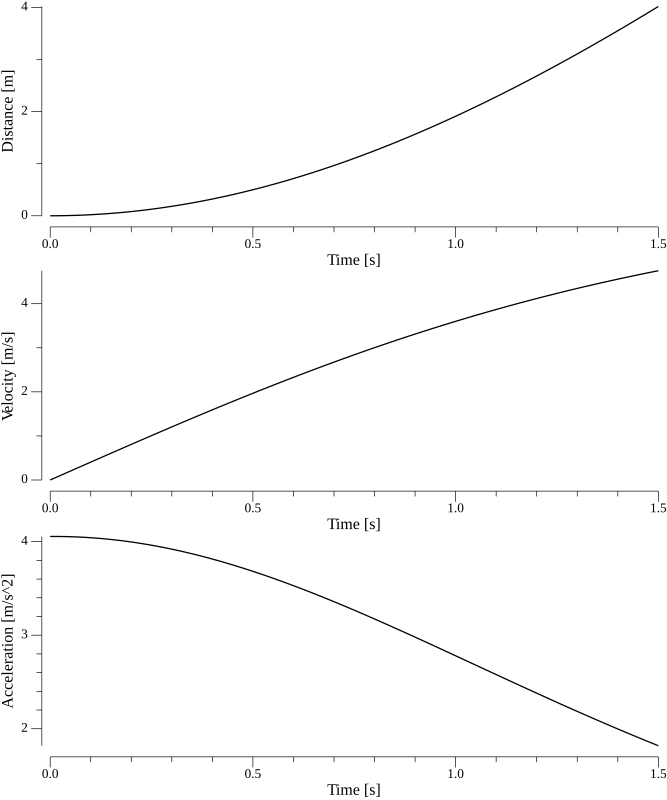
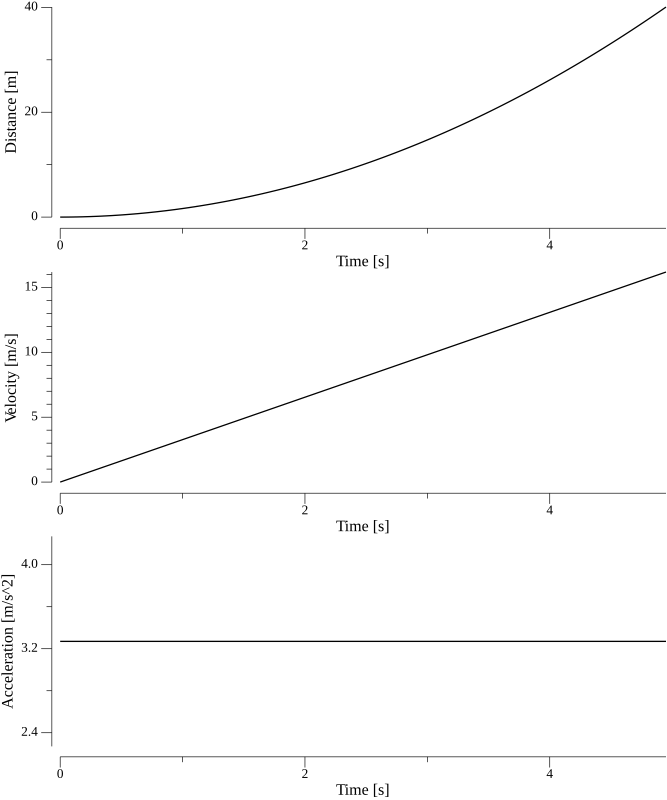
added basic rotation

diff --git a/main.go b/main.go
@@ -12,6 +12,7 @@ import (
 	"fyne.io/fyne/v2/container"
 	"fyne.io/fyne/v2/layout"
 	"fyne.io/fyne/v2/widget"
+
 	"github.com/faiface/pixel"
 	"github.com/faiface/pixel/imdraw"
 	"github.com/faiface/pixel/pixelgl"
@@ -60,15 +61,20 @@ func run() {
 
 	
 	var draw_result []float64
+	var fi float64
 
 	for i := 0; i < len(x_result); i++ {
 		draw_result = append(draw_result,x_result[i]/x_result[len(x_result)-1]*lineHeight/math.Sin(alfa))
 		
+		
 	}
+	fmt.Println(a_result[len(a_result)-1])
+	fmt.Println(t_result[len(t_result)-1])
 
 	i := 0
 	for !win.Closed() {
 		win.Clear(color.Black)
+
 		d:=30.0
 		
 		imd.Clear()
@@ -76,15 +82,11 @@ func run() {
 		if(y-d*math.Sin(alfa)>y1-lineHeight){
 			x = x1 +3 + draw_result[i]*math.Cos(alfa)
 			y = y1 +3 - draw_result[i]*math.Sin(alfa)
+			fi = (a_result[i]*math.Pow(t_result[i],2)/4)
 			i+=1
 		}
-		fmt.Println(t_result[i])
+		fmt.Println(fi/math.Pi*180)
 		
-
-		
-
-		
-		// Narysuj równię pochyloną
 		imd.Color = color.White
 		imd.Push(pixel.V(x1, y1-lineHeight), pixel.V(x1+lineHeight/math.Tan(alfa), y1-lineHeight))
 		imd.Push(pixel.V(x1, y1), pixel.V(x1+lineHeight/math.Tan(alfa), y1-lineHeight))
@@ -95,22 +97,27 @@ func run() {
 		imd.Color = color.RGBA{255,0,0,0}
 		
 
-		x2 := x + d * math.Cos(alfa)
-		y2 := y - d * math.Sin(alfa)
+		// x2 := x + d * math.Cos(alfa)
+		// y2 := y - d * math.Sin(alfa)
 
-		x3 := x + d * math.Sin(alfa)
-		y3 := y + d * math.Cos(alfa)
+		// x3 := x + d * math.Sin(alfa)
+		// y3 := y + d * math.Cos(alfa)
 
-		x4 := x + d * (math.Cos(alfa) + math.Sin(alfa))
-		y4 := y - d * (math.Sin(alfa) - math.Cos(alfa))
+		// x4 := x + d * (math.Cos(alfa) + math.Sin(alfa))
+		// y4 := y - d * (math.Sin(alfa) - math.Cos(alfa))
 		
-		imd.Push(pixel.V(x,y),pixel.V(x2,y2))
-		imd.Push(pixel.V(x2,y2),pixel.V(x4,y4))
-		imd.Push(pixel.V(x4,y4),pixel.V(x3,y3))
-		imd.Push(pixel.V(x3,y3),pixel.V(x,y))
+		// imd.Push(pixel.V(x,y),pixel.V(x2,y2))
+		// imd.Push(pixel.V(x2,y2),pixel.V(x4,y4))
+		// imd.Push(pixel.V(x4,y4),pixel.V(x3,y3))
+		// imd.Push(pixel.V(x3,y3),pixel.V(x,y))
+		// imd.Line(5)
+		imd.Push(pixel.V(x+20*math.Sin(alfa),y+20*math.Cos(alfa)))
 		
+		imd.Circle(20,5)
 
+		imd.Push(pixel.V(x+20*math.Sin(alfa),y+20*math.Cos(alfa)),pixel.V(x+20*math.Sin(alfa)+20*math.Cos(fi),y+20*math.Cos(alfa)-20*math.Sin(fi)))
 		imd.Line(5)
+		
 		
 		
 		
@@ -120,7 +127,8 @@ func run() {
 		win.Update()
 		
 		time.Sleep(time.Second/100) 
-		fmt.Println(float64(i)/100)
+		// fmt.Println(float64(i)/100)
+		
 		
 	}
 	plot_results(t_result,x_result,v_result,a_result)
@@ -139,7 +147,8 @@ func parameterWindow () {
 	app := app.New()
 	w := app.NewWindow("Hello World")
 	
-	
+	var square = false
+
 	input_gravity := widget.NewEntry()
 	input_gravity_label :=widget.NewLabel("Gravity acceleration [m/s^2]")
 	input_gravity.Text = "9.81"
@@ -193,7 +202,7 @@ func parameterWindow () {
 			fmt.Println("Erorr: ",err)
 		}
 		
-		x_result,v_result,a_result,t_result=simulation(g,m,u,b,alfa,height)
+		x_result,v_result,a_result,t_result=simulation_square(square,g,m,u,b,alfa,height)
 		
 		w.Close()
 		
@@ -207,7 +216,7 @@ func parameterWindow () {
 	w.ShowAndRun()
 }
 
-func simulation(g,m,u,b,alfa,height float64) ([]float64,[]float64,[]float64,[]float64){
+func simulation_square(square bool,g,m,u,b,alfa,height float64) ([]float64,[]float64,[]float64,[]float64){
 	x := float64(0) 
 	x_prev := float64(0) 
 	v:=float64(0) 
@@ -222,7 +231,11 @@ func simulation(g,m,u,b,alfa,height float64) ([]float64,[]float64,[]float64,[]fl
 	for i := 0; x*math.Sin(alfa)< height; i++ {
 		x = x_prev + h*v_prev+math.Pow(h,2)/2*a_prev
 		v = v_prev + h*a_prev
-		a = -b/m*math.Pow(v_prev,2)-g*u*math.Cos(alfa)+g*math.Sin(alfa)
+		if square{
+			a = -b/m*math.Pow(v_prev,2)-g*u*math.Cos(alfa)+g*math.Sin(alfa)
+		}else{
+			a = 2.0/3.0*(-b/m*math.Pow(v_prev,2)+g*math.Sin(alfa))
+		}
 		x_result = append(x_result,x)
 		v_result = append(v_result,v)
 		a_result = append(a_result,a)
@@ -233,6 +246,8 @@ func simulation(g,m,u,b,alfa,height float64) ([]float64,[]float64,[]float64,[]fl
 	}
 	return x_result,v_result,a_result,t_result
 }
+
+
 
 
 func plot_results(t_result,x_result,v_result,a_result []float64) {
@@ -297,6 +312,7 @@ func plot_results(t_result,x_result,v_result,a_result []float64) {
 	img := vgimg.New(vg.Points(500), vg.Points(600))
     dc := draw.New(img)
 
+	
 
 
 
